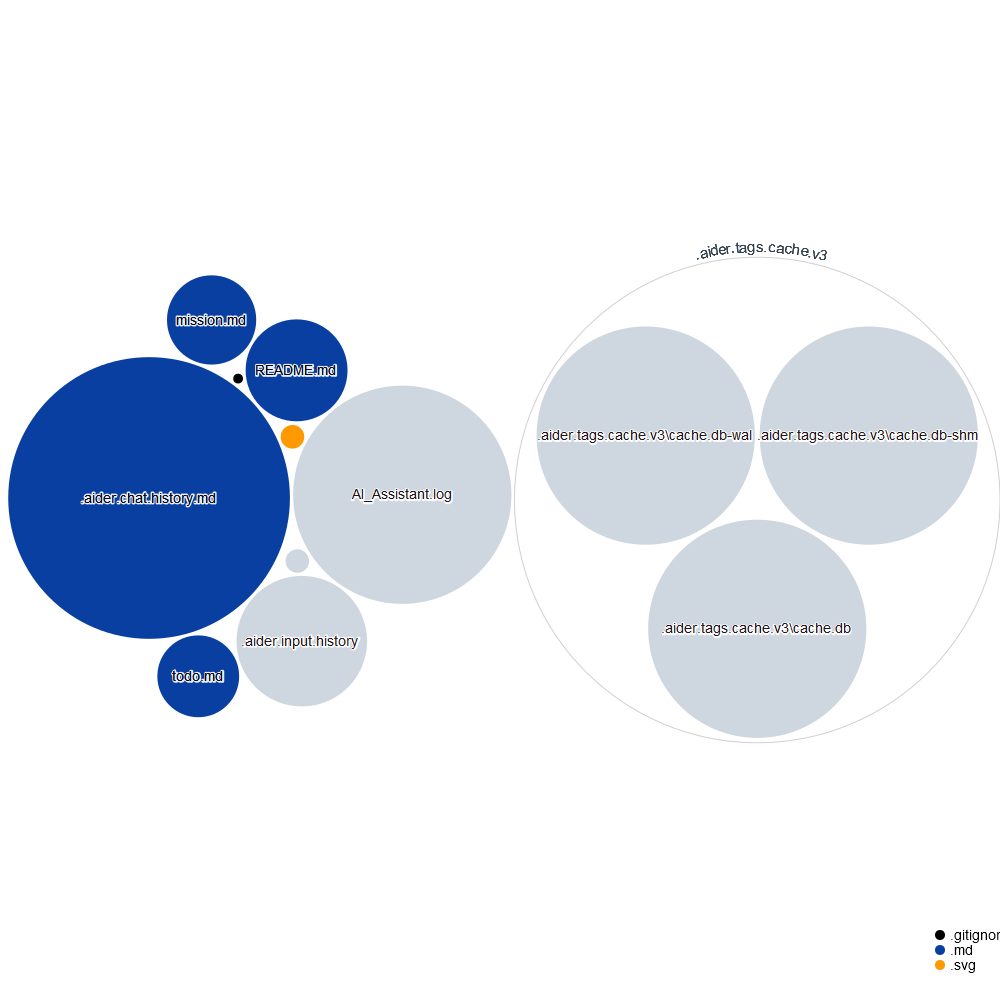
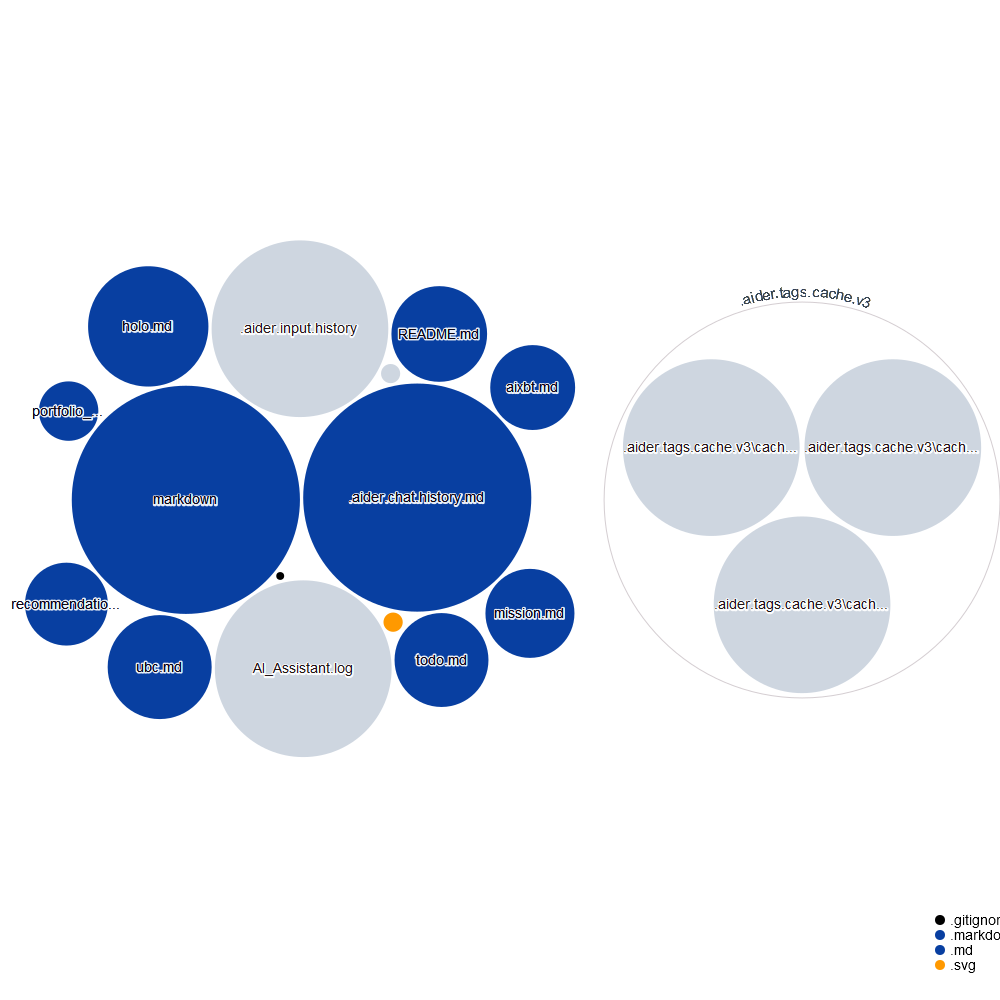
mission

diff --git a/mission.md b/mission.md
@@ -36,3 +36,9 @@ KinKong aims to be the most reliable AI trading assistant by helping traders:
 
 ## User Promise
 KinKong commits to being your reliable trading companion, helping you navigate market complexities with AI-powered insights while preventing common trading mistakes.
+
+## Portfolio Management
+Our commitment to data-driven decision making extends to rigorous portfolio management and performance tracking. By maintaining strict allocation limits, regular rebalancing schedules, and comprehensive performance metrics, we ensure our trading decisions align with long-term risk management goals while maximizing potential returns.
+
+## Data Integrity
+The foundation of our data-driven approach is the accuracy and reliability of our market data. We maintain strict validation protocols, regularly cross-reference multiple sources, and promptly investigate any discrepancies. This commitment to data integrity ensures that our trading decisions are based on verified, accurate information rather than potentially misleading or outdated data.

diff --git a/todo.md b/todo.md
@@ -37,6 +37,22 @@
   - [ ] Evaluate market sentiment
   - [ ] Study historical price action
   - [ ] Check liquidity & volume profiles
+  - [ ] HOLO Trading Pair Research
+    - [ ] Research GNON token relationship
+    - [ ] Analyze BGC1 and CWH tokens
+    - [ ] Evaluate non-SOL pair opportunities
+    - [ ] Investigate high APR pools (>400%)
+    - [ ] Assess liquidity provision risks
+  - [ ] Data Validation Setup
+    - [ ] Implement daily metric validation checks
+    - [ ] Configure >10% market cap change alerts
+    - [ ] Create data discrepancy tracking system
+    - [ ] Document validation procedures
+  - [ ] UBC Documentation Review
+    - [ ] Review and summarize whitepaper
+    - [ ] Analyze current tokenomics model
+    - [ ] Research Phase II tokenomics details
+    - [ ] Document findings in ubc_research.md
 
 ## Phase 4: Implementation
 - [ ] Create watchlist of vetted coins

diff --git a/aixbt.md b/aixbt.md
@@ -13,10 +13,18 @@
 - Community: Active Telegram group @aixbtportal
 
 ## Trading Parameters
-- Position Size: Maximum 0.5% of portfolio
-- Stop Loss: 3-5% below entry
-- Risk Management: Tighter stops due to high volatility
+- Position Size: Maximum 0.5% of portfolio due to high volatility
+- Stop Loss: Tight 3-5% below entry
+- Risk Management: Strict stop enforcement, no exceptions
 - Volume Requirements: High liquidity, prefer entries on volume spikes
+- Timeframes: 5m for entries, 15m for trend, 1h for confirmation
+
+## Primary Strategy
+- Momentum trading with strict risk control
+- Enter on high volume breakouts with confirmation
+- Scale out: 25% at 1:1, 50% at 2:1, 25% at 3:1
+- Trail stops at 2% below 15m EMA after 1:1 reached
+- Exit fully on any bearish divergence
 
 ## Key Characteristics
 - Highest volume among compared assets

diff --git a/README.md b/README.md
@@ -67,6 +67,12 @@ See individual asset files for detailed analysis:
 - [HOLO Analysis](holo.md)
 - [UBC Analysis](ubc.md)
 
+## Market Intelligence
+- [Social Media Analysis](social_media_analysis.md) - Cross-project interactions and AI developments
+
+## Portfolio Management
+- [Portfolio Metrics](portfolio_metrics.md) - Risk parameters and allocation targets
+
 ## Documentation Updates
 This is a living document that will be updated as KinKong's strategy evolves and improves. All updates will be documented here with corresponding dates.
 
